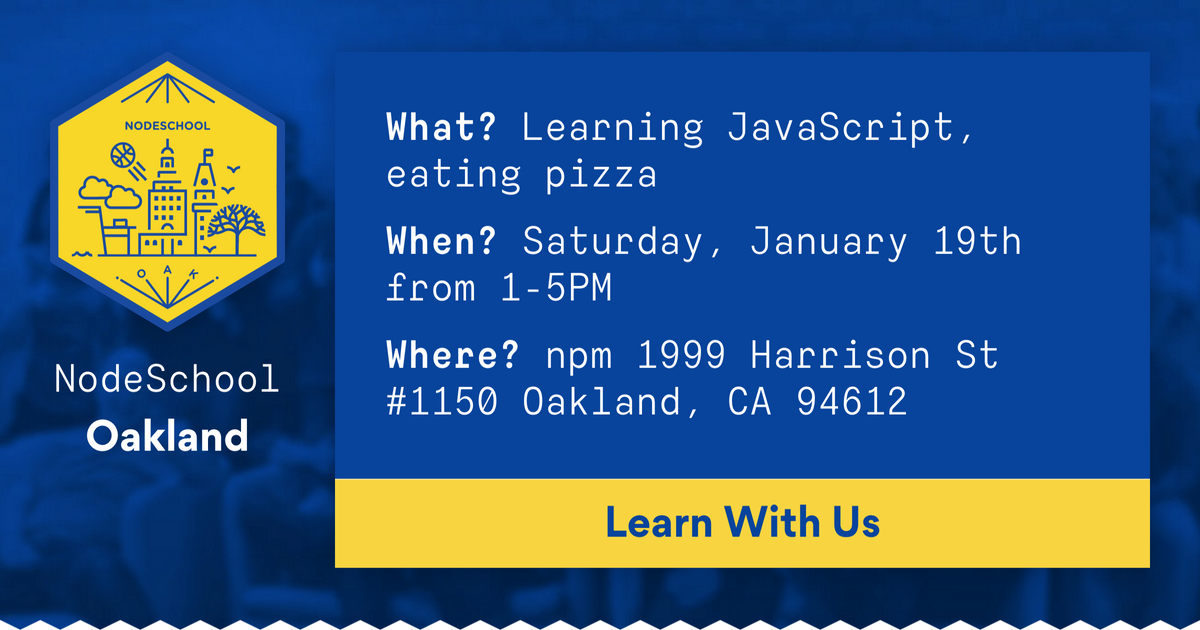
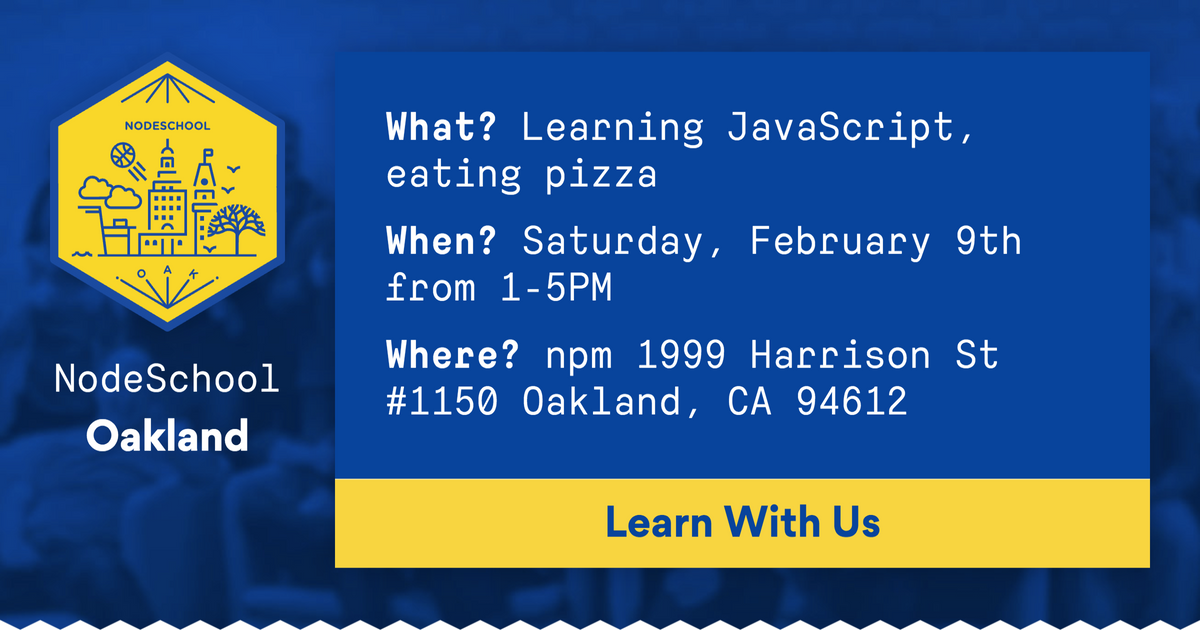
AUTOMATIC site update

diff --git a/docs/index.html b/docs/index.html
@@ -63,10 +63,10 @@
 
           <div class="next-event">
             <div class="next-event__description">
-              <h2 class="next-event__heading">Our Next Event is on January 19th</h2>
+              <h2 class="next-event__heading">Our Next Event is on February 9th</h2>
               <ul class="next-event__info">
                 <li class="next-event__info__item">
-                  <strong class="strong--alt">When?</strong> Saturday, January 19th from 1-5PM
+                  <strong class="strong--alt">When?</strong> Saturday, February 9th from 1-5PM
                 </li>
                 <li class="next-event__info__item">
                   <strong class="strong--alt">Where?</strong> npm 1999 Harrison St #1150 Oakland, CA 94612 [<a href="http://maps.google.com/?q=1999%20Harrison%20St%20%231150%20Oakland%2C%20CA%2094612">map</a>]
@@ -77,9 +77,9 @@
               </ul>
             </div>
             <nav class="next-event__actions">
-              <a class="next-event__action__learner next-event__action button" href="https:&#x2F;&#x2F;ti.to&#x2F;nodeschool-oakland&#x2F;nodeschool-oakland-january-2019">
+              <a class="next-event__action__learner next-event__action button" href="https:&#x2F;&#x2F;ti.to&#x2F;nodeschool-oakland&#x2F;nodeschool-oakland-february-2019">
                 Sign up as a Learner
-              </a><a class="next-event__action__mentor next-event__action button" href="https:&#x2F;&#x2F;github.com&#x2F;nodeschool&#x2F;oakland&#x2F;issues&#x2F;70">
+              </a><a class="next-event__action__mentor next-event__action button" href="https:&#x2F;&#x2F;github.com&#x2F;nodeschool&#x2F;oakland&#x2F;issues&#x2F;72">
                 Sign up as a Mentor
               </a>
             </nav>

diff --git a/docs/social.html b/docs/social.html
@@ -20,7 +20,7 @@
         <div class="social__message next-event">
           <div class="next-event__description">
             <p><strong>What?</strong> Learning JavaScript, eating pizza</p>
-            <p><strong>When?</strong> Saturday, January 19th from 1-5PM</p>
+            <p><strong>When?</strong> Saturday, February 9th from 1-5PM</p>
             <p><strong>Where?</strong> npm 1999 Harrison St #1150 Oakland, CA 94612</p>
           </div>
           <div class="next-event__actions">
